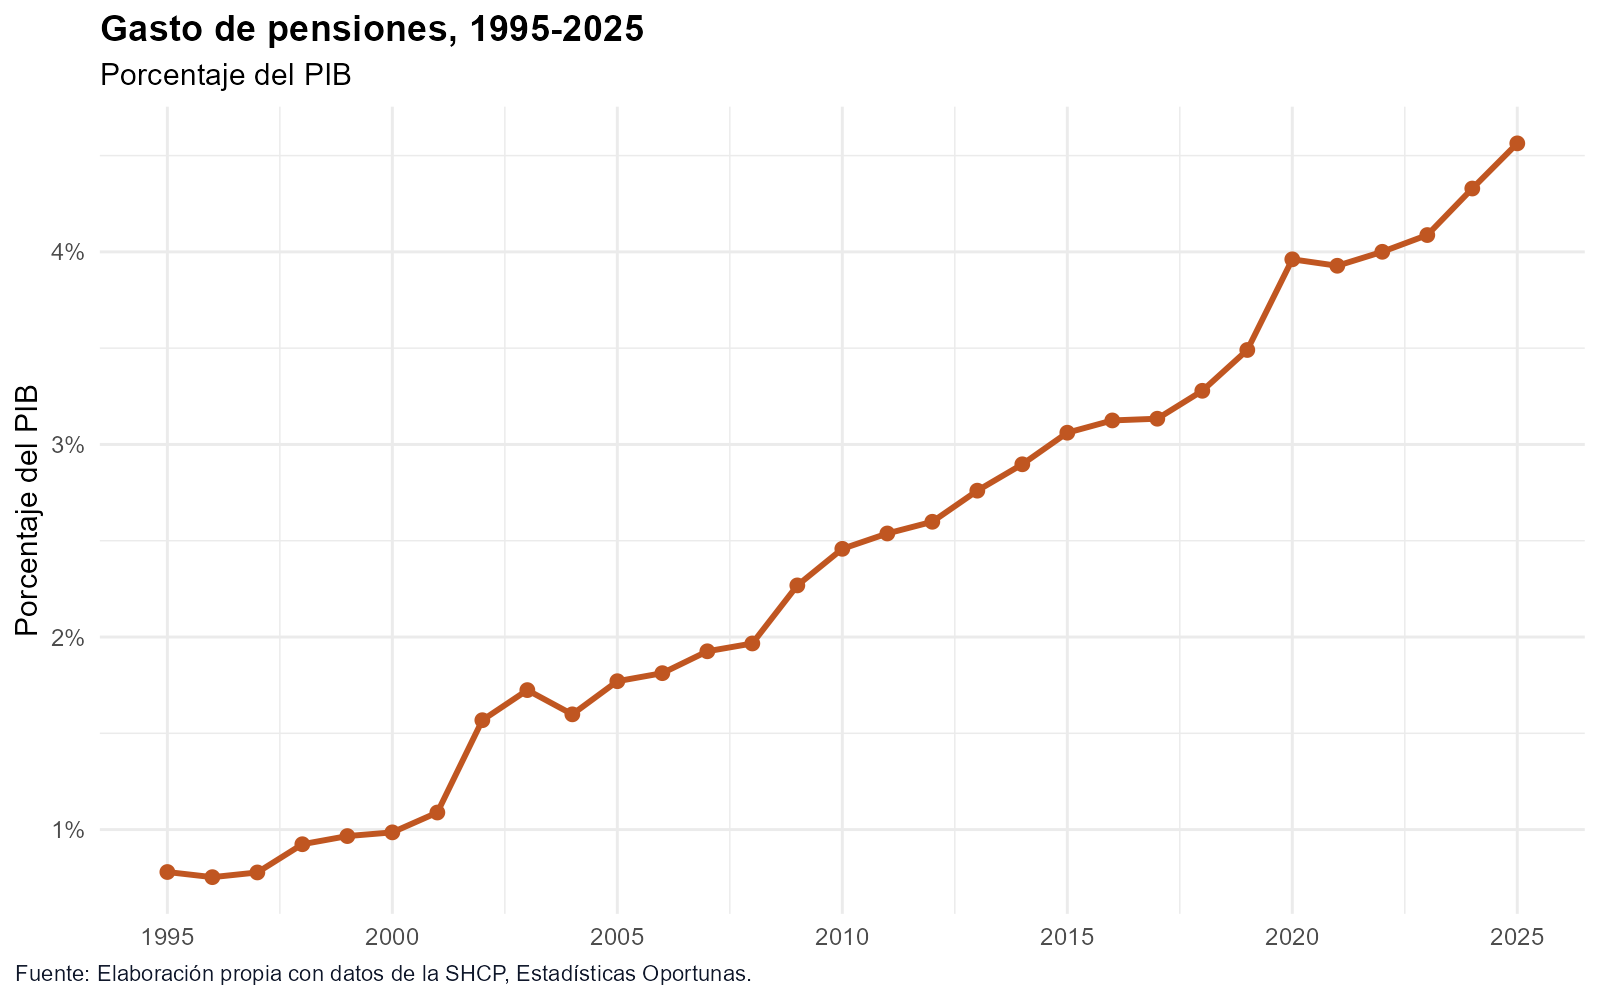
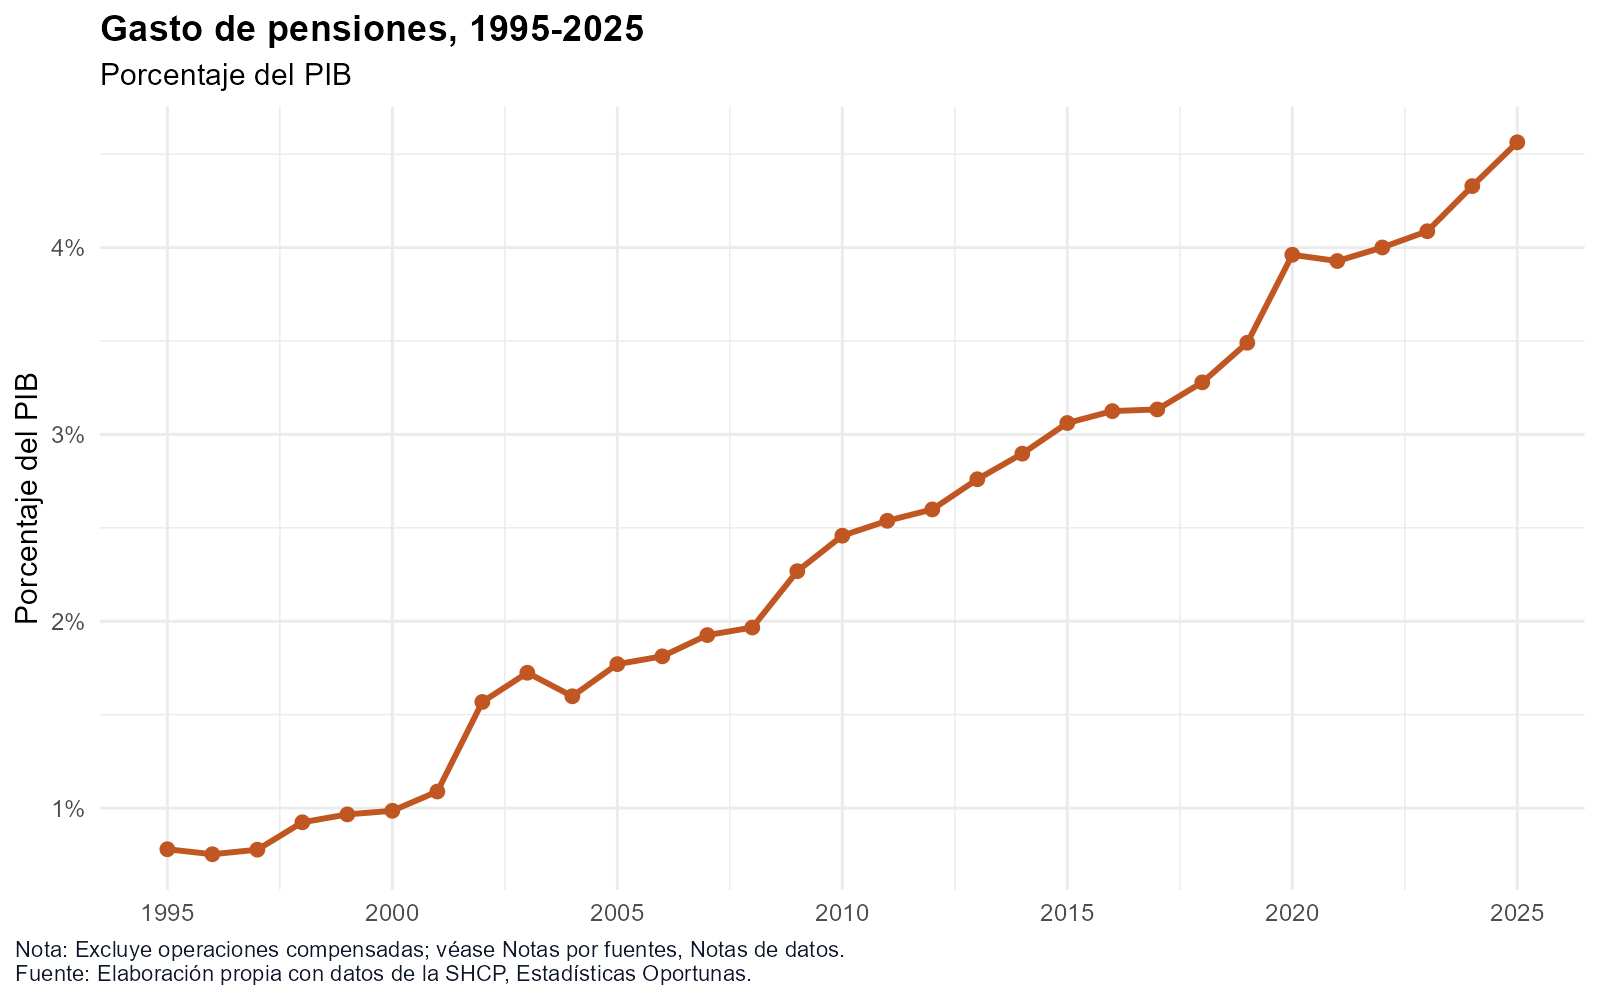
feat: agrega Nota en la gráfica 5 gasto de pensiones

diff --git a/analysis/analisis_finanzas_publicas_mexico.md b/analysis/analisis_finanzas_publicas_mexico.md
@@ -862,7 +862,7 @@ grafica_pensiones <- ggplot(pensiones, aes(x = anio, y = gasto_pensiones_pct_pib
     subtitle = "Porcentaje del PIB",
     x = NULL,
     y = "Porcentaje del PIB",
-    caption = "Fuente: Elaboración propia con datos de la SHCP, Estadísticas Oportunas."
+    caption = "Nota: Excluye operaciones compensadas; véase Notas por fuentes, Notas de datos. \nFuente: Elaboración propia con datos de la SHCP, Estadísticas Oportunas."
   ) +
   theme_minimal() +
   theme(
